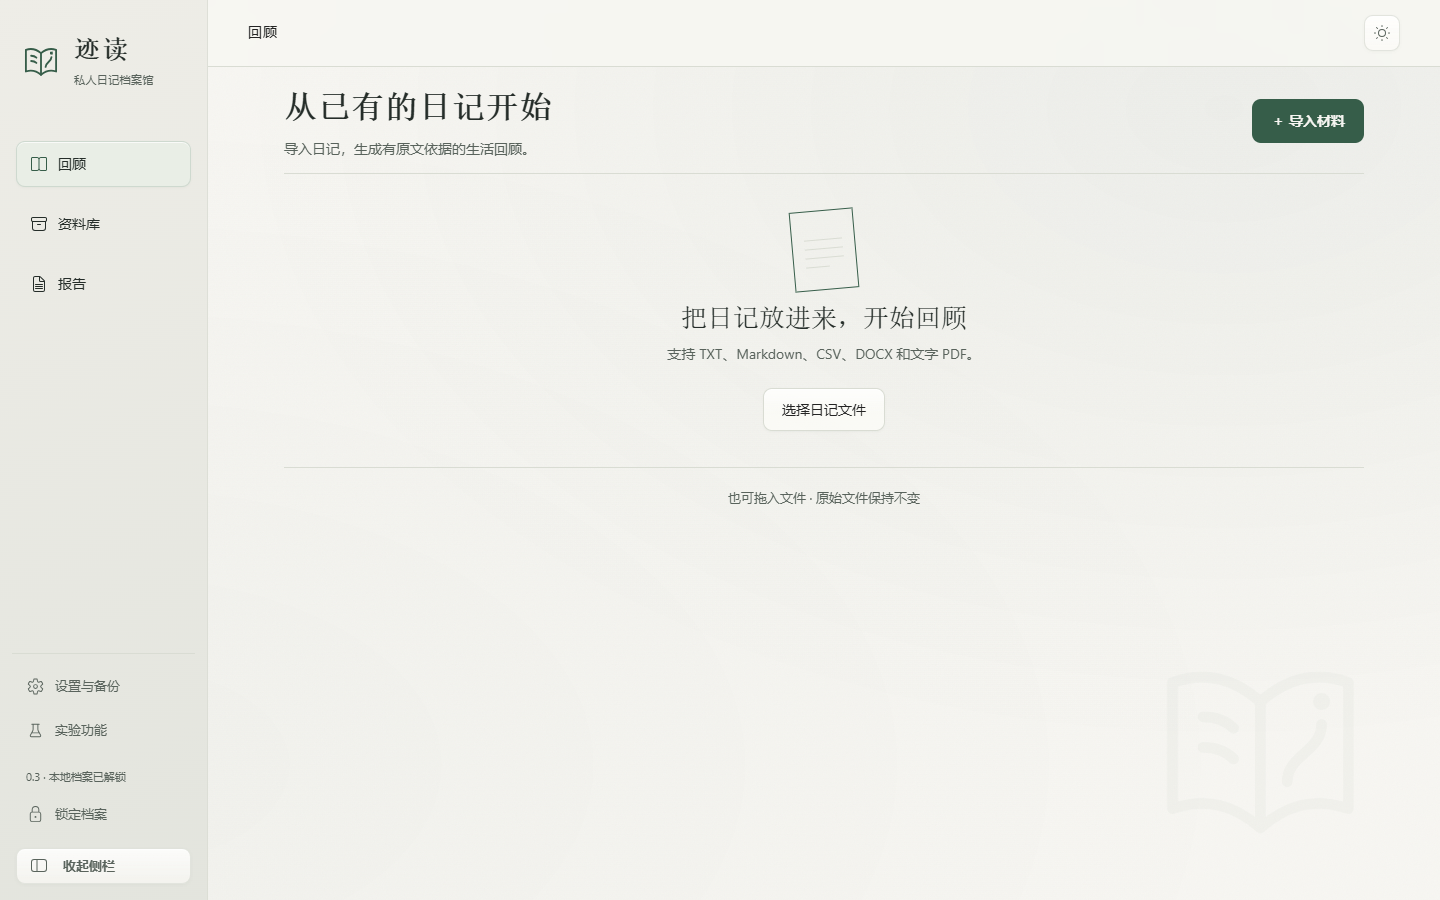
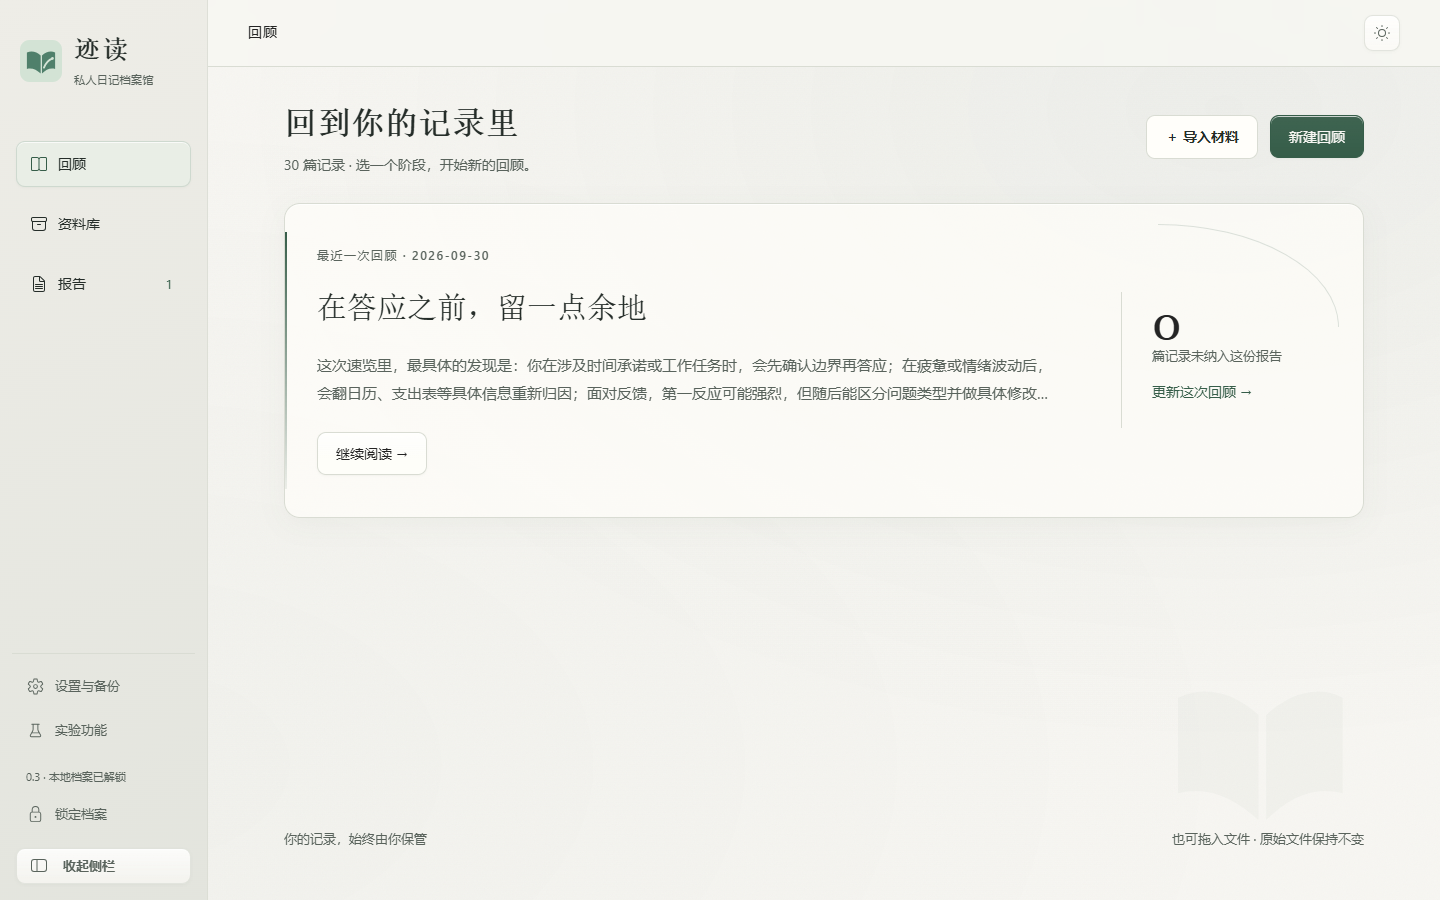
Update Jidu mist-sage identity and Windows preview

diff --git a/index.html b/index.html
@@ -8,8 +8,8 @@
     <meta name="description" content="迹读 Windows 免费试用版：导入已有日记，发现跨时间的线索，阅读可返回原文核对的回顾报告。" />
     <meta property="og:title" content="迹读 · 让写下的生活，有迹可读" />
     <meta property="og:description" content="迹读 Windows 免费试用版。导入已有日记，读一份有原文依据的生活回顾。" />
-    <meta property="og:image" content="https://yaozupeng66-glitch.github.io/jidu-download/assets/windows-report.png" />
-    <link rel="icon" href="./assets/jidu-logo.svg" type="image/svg+xml" />
+    <meta property="og:image" content="https://yaozupeng66-glitch.github.io/jidu-download/assets/windows-report.png?v=032" />
+    <link rel="icon" href="./assets/jidu-logo.svg?v=032" type="image/svg+xml" />
     <link rel="stylesheet" href="./site.css" />
     <script src="./site.js" defer></script>
     <title>迹读 · Windows 免费试用版</title>
@@ -19,7 +19,7 @@
     <header class="site-header">
       <div class="nav-inner">
         <a class="brand" href="#top" aria-label="迹读首页">
-          <img src="./assets/jidu-logo.svg" width="30" height="30" alt="" />
+          <img src="./assets/jidu-logo.svg?v=032" width="30" height="30" alt="" />
           <strong>迹读</strong>
         </a>
         <nav class="desktop-nav" aria-label="主要导航">
@@ -54,15 +54,15 @@
           <h1 id="hero-title">让写下的生活，<br /><span>有迹可读。</span></h1>
           <p class="hero-summary">写了很久的日记，值得认真回看。迹读从已有记录中整理线索，生成可以返回原文核对的生活回顾。</p>
           <div class="hero-actions">
-            <a class="button button-primary" href="https://github.com/yaozupeng66-glitch/jidu-download/releases/download/v0.3.1-free-trial.1/jidu-windows-0.3.1-free-trial.exe">下载 Windows 版</a>
+            <a class="button button-primary" href="https://github.com/yaozupeng66-glitch/jidu-download/releases/download/v0.3.2-free-trial.1/jidu-windows-0.3.2-free-trial.exe">下载 Windows 版</a>
             <a class="text-link" href="#product">了解迹读 <span aria-hidden="true">↘</span></a>
           </div>
           <p class="hero-availability">适用于 Windows x64 · 免费试用 · 手机版即将上线</p>
         </div>
         <figure class="hero-visual content-width">
           <div class="app-window app-window-main">
-            <div class="window-bar" aria-hidden="true"><span class="window-app"><img src="./assets/jidu-logo.svg" width="16" height="16" alt="" /> 迹读</span><span class="window-controls">−　□　×</span></div>
-            <img src="./assets/windows-report.png" width="1440" height="900" fetchpriority="high" alt="迹读 Windows 桌面版的示例报告，展示生活回顾、章节目录和翻页操作" />
+            <div class="window-bar" aria-hidden="true"><span class="window-app"><img src="./assets/jidu-logo.svg?v=032" width="16" height="16" alt="" /> 迹读</span><span class="window-controls">−　□　×</span></div>
+            <img src="./assets/windows-report.png?v=032" width="1440" height="900" fetchpriority="high" alt="迹读 Windows 桌面版的示例报告，展示生活回顾、章节目录和翻页操作" />
           </div>
           <figcaption>Windows 桌面版 · 示例报告</figcaption>
         </figure>
@@ -128,8 +128,8 @@
           </div>
           <figure class="preview-visual">
             <div class="app-window app-window-secondary">
-              <div class="window-bar" aria-hidden="true"><span class="window-app"><img src="./assets/jidu-logo.svg" width="16" height="16" alt="" /> 迹读</span><span class="window-controls">−　□　×</span></div>
-              <img src="./assets/windows-home.png" width="1440" height="900" alt="迹读 Windows 桌面版回顾首页，展示导入已有日记的入口" />
+              <div class="window-bar" aria-hidden="true"><span class="window-app"><img src="./assets/jidu-logo.svg?v=032" width="16" height="16" alt="" /> 迹读</span><span class="window-controls">−　□　×</span></div>
+              <img src="./assets/windows-home.png?v=032" width="1440" height="900" alt="迹读 Windows 桌面版回顾首页，展示导入已有日记的入口" />
             </div>
             <figcaption>Windows 桌面版 · 回顾首页</figcaption>
           </figure>
@@ -160,16 +160,16 @@
 
       <section class="download-section" id="download" aria-labelledby="download-title">
         <div class="content-width download-layout">
-          <p class="section-index">迹读 0.3.1 · Windows x64</p>
+          <p class="section-index">迹读 0.3.2 · Windows x64</p>
           <h2 id="download-title">再读一次，<br />看见新的自己。</h2>
           <p class="download-summary">迹读免费试用版不需要账号或兑换码。你可以连接自己的模型 API，也可以使用本机 Ollama；云端模型服务商可能另行收取 API 费用。</p>
           <div class="download-actions">
-            <a class="button button-primary" href="https://github.com/yaozupeng66-glitch/jidu-download/releases/download/v0.3.1-free-trial.1/jidu-windows-0.3.1-free-trial.exe">下载安装包 · Windows x64</a>
-            <a class="text-link" href="https://github.com/yaozupeng66-glitch/jidu-download/releases/tag/v0.3.1-free-trial.1">查看版本与校验文件 <span aria-hidden="true">↗</span></a>
+            <a class="button button-primary" href="https://github.com/yaozupeng66-glitch/jidu-download/releases/download/v0.3.2-free-trial.1/jidu-windows-0.3.2-free-trial.exe">下载安装包 · Windows x64</a>
+            <a class="text-link" href="https://github.com/yaozupeng66-glitch/jidu-download/releases/tag/v0.3.2-free-trial.1">查看版本与校验文件 <span aria-hidden="true">↗</span></a>
           </div>
           <div class="release-details">
             <p>当前为未签名的预发布安装包。Windows 可能显示来源提示，请核对下载地址和校验值，不要关闭安全软件。首次使用后请导出加密备份。</p>
-            <p class="download-hash">SHA-256 <code>769768120d51fd9fb277f5e6104082867feb6f58b655b38f49d2f6f91ad443db</code></p>
+            <p class="download-hash">SHA-256 <code>e7b18ac55c186c29673456bda45b2ba306d13fc2a0ded2b1359c29d51ad60b01</code></p>
           </div>
         </div>
       </section>
@@ -187,7 +187,7 @@
 
     <footer class="site-footer">
       <div class="content-width footer-inner">
-        <a class="brand" href="#top" aria-label="返回迹读首页"><img src="./assets/jidu-logo.svg" width="28" height="28" alt="" /><strong>迹读</strong></a>
+        <a class="brand" href="#top" aria-label="返回迹读首页"><img src="./assets/jidu-logo.svg?v=032" width="28" height="28" alt="" /><strong>迹读</strong></a>
         <p>让长期记录成为可回读、可核对的生活回顾。</p>
         <a href="https://github.com/yaozupeng66-glitch/jidu-download/issues/new">反馈问题</a>
         <a href="#top">回到顶部 ↑</a>

diff --git a/site.css b/site.css
@@ -142,7 +142,7 @@ h1, h2, h3 { text-wrap: balance; }
 .preview-visual figcaption { color: #b2cbb5; text-align: left; }
 
 .privacy-section { position: relative; isolation: isolate; padding-top: 140px; padding-bottom: 140px; }
-.privacy-section::before { position: absolute; z-index: -1; top: 28px; right: max(0px, calc((100vw - var(--content)) / -2)); width: min(360px, 28vw); aspect-ratio: 1; background: url("./assets/jidu-line-mark.svg") center / contain no-repeat; content: ""; opacity: .055; transform: rotate(-8deg); }
+.privacy-section::before { position: absolute; z-index: -1; top: 28px; right: max(0px, calc((100vw - var(--content)) / -2)); width: min(360px, 28vw); aspect-ratio: 1; background: url("./assets/jidu-line-mark.svg?v=032") center / contain no-repeat; content: ""; opacity: .055; transform: rotate(-8deg); }
 .privacy-section h2 { margin-bottom: 62px; }
 .privacy-layout { display: grid; grid-template-columns: 1fr 1fr; gap: 90px; border-top: 1px solid var(--line); }
 .privacy-lead { max-width: 24ch; margin: 27px 0 0; font-size: clamp(19px, 2vw, 25px); font-weight: 570; line-height: 1.7; }
